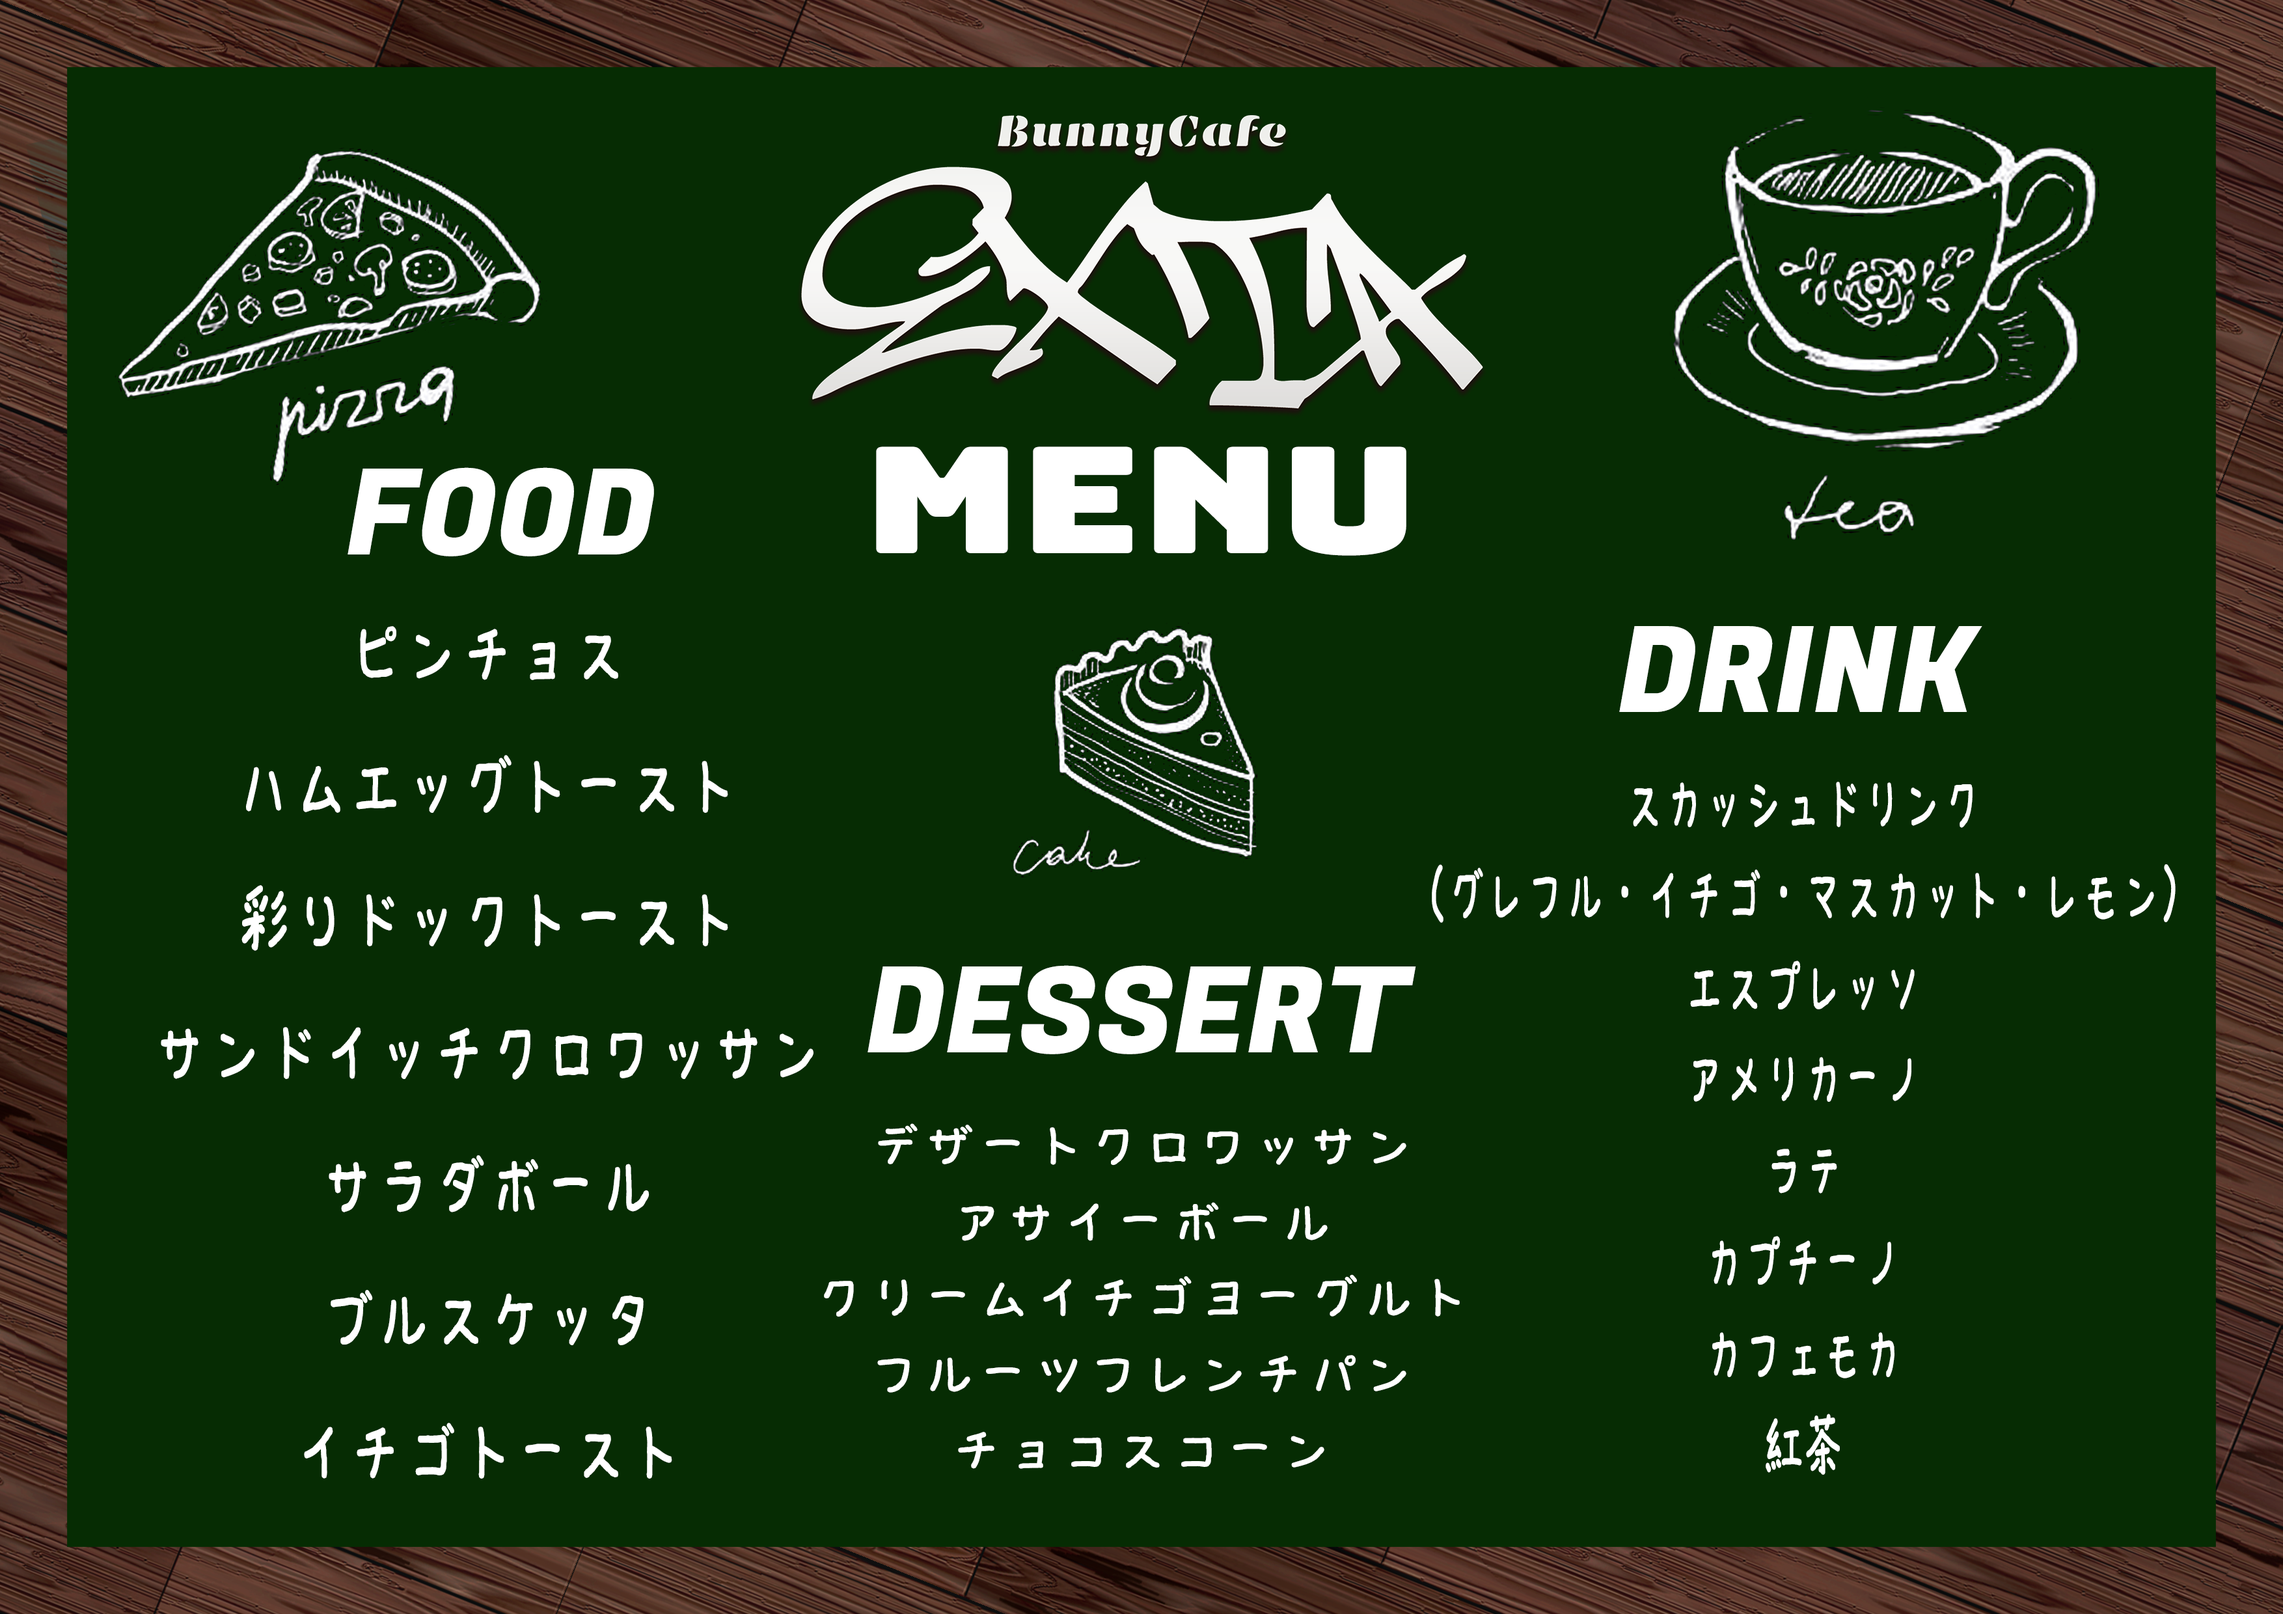
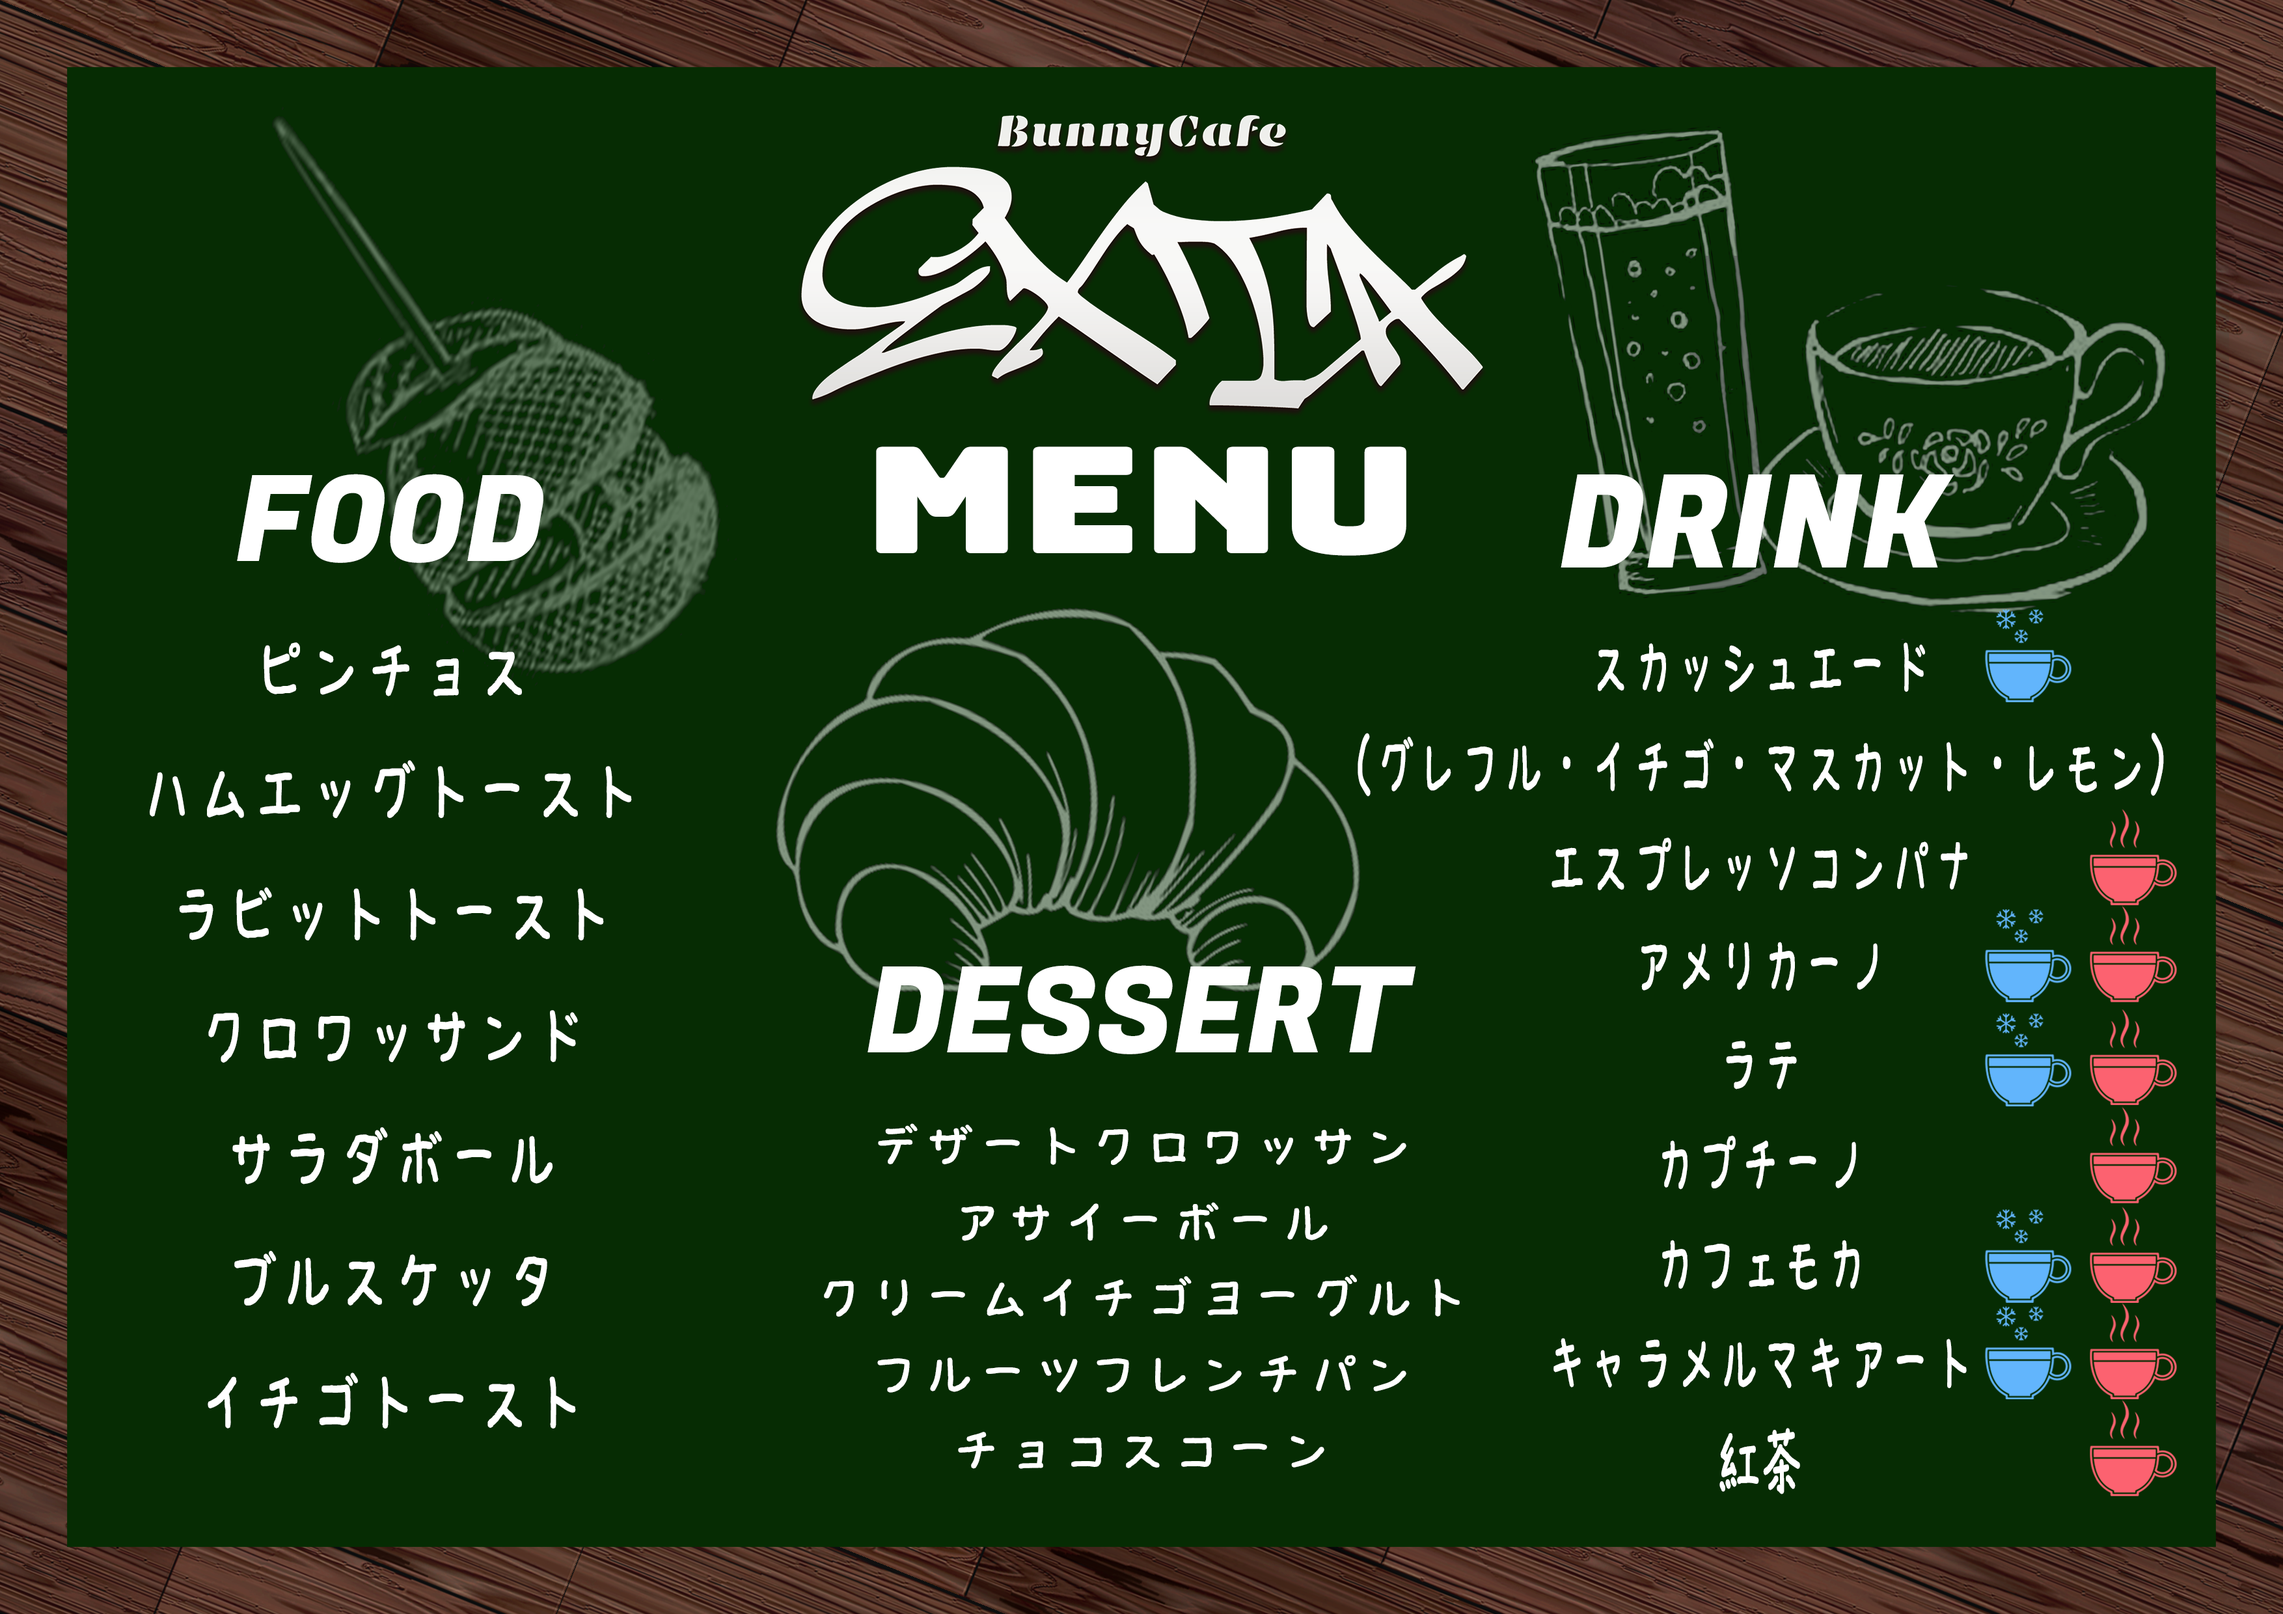
Update menu: rename items, add caramel macchiato, add hot/iced tags

diff --git a/index.html b/index.html
@@ -184,8 +184,8 @@
           <ul class="menu-list menu-list-simple">
             <li class="menu-item-simple">ピンチョス</li>
             <li class="menu-item-simple">ハムエッグトースト</li>
-            <li class="menu-item-simple">彩りドックトースト</li>
-            <li class="menu-item-simple">サンドイッチクロワッサン</li>
+            <li class="menu-item-simple">ラビットトースト</li>
+            <li class="menu-item-simple">クロワッサンド</li>
             <li class="menu-item-simple">サラダボール</li>
             <li class="menu-item-simple">ブルスケッタ</li>
             <li class="menu-item-simple">イチゴトースト</li>
@@ -207,15 +207,38 @@
           <h3 class="menu-category-title"><span>☕</span>Drink</h3>
           <ul class="menu-list menu-list-simple">
             <li class="menu-item-simple">
-              スカッシュドリンク
+              スカッシュエード
               <span class="menu-item-note">（グレフル・イチゴ・マスカット・レモン）</span>
+              <span class="menu-tags"><span class="menu-tag menu-tag-iced">ICED</span></span>
             </li>
-            <li class="menu-item-simple">エスプレッソ</li>
-            <li class="menu-item-simple">アメリカーノ</li>
-            <li class="menu-item-simple">ラテ</li>
-            <li class="menu-item-simple">カプチーノ</li>
-            <li class="menu-item-simple">カフェモカ</li>
-            <li class="menu-item-simple">紅茶</li>
+            <li class="menu-item-simple">
+              エスプレッソコンパナ
+              <span class="menu-tags"><span class="menu-tag menu-tag-hot">HOT</span></span>
+            </li>
+            <li class="menu-item-simple">
+              アメリカーノ
+              <span class="menu-tags"><span class="menu-tag menu-tag-hot">HOT</span><span class="menu-tag menu-tag-iced">ICED</span></span>
+            </li>
+            <li class="menu-item-simple">
+              ラテ
+              <span class="menu-tags"><span class="menu-tag menu-tag-hot">HOT</span><span class="menu-tag menu-tag-iced">ICED</span></span>
+            </li>
+            <li class="menu-item-simple">
+              カプチーノ
+              <span class="menu-tags"><span class="menu-tag menu-tag-hot">HOT</span></span>
+            </li>
+            <li class="menu-item-simple">
+              カフェモカ
+              <span class="menu-tags"><span class="menu-tag menu-tag-hot">HOT</span><span class="menu-tag menu-tag-iced">ICED</span></span>
+            </li>
+            <li class="menu-item-simple">
+              キャラメルマキアート
+              <span class="menu-tags"><span class="menu-tag menu-tag-hot">HOT</span><span class="menu-tag menu-tag-iced">ICED</span></span>
+            </li>
+            <li class="menu-item-simple">
+              紅茶
+              <span class="menu-tags"><span class="menu-tag menu-tag-hot">HOT</span></span>
+            </li>
           </ul>
         </div>
       </div>

diff --git a/css/style.css b/css/style.css
@@ -829,6 +829,35 @@ ul { list-style: none; }
   margin-top: 4px;
 }
 
+.menu-tags {
+  display: inline-flex;
+  gap: 6px;
+  margin-left: 8px;
+  vertical-align: middle;
+}
+
+.menu-tag {
+  display: inline-block;
+  font-size: 0.6rem;
+  font-weight: 700;
+  letter-spacing: 0.06em;
+  padding: 2px 8px;
+  border-radius: 999px;
+  line-height: 1.6;
+}
+
+.menu-tag-hot {
+  color: #E8927A;
+  background: rgba(198, 90, 63, 0.18);
+  border: 1px solid rgba(198, 90, 63, 0.4);
+}
+
+.menu-tag-iced {
+  color: #8FC4DE;
+  background: rgba(94, 158, 189, 0.16);
+  border: 1px solid rgba(94, 158, 189, 0.4);
+}
+
 /* ==========================================================================
    Shop Info
    ========================================================================== */
